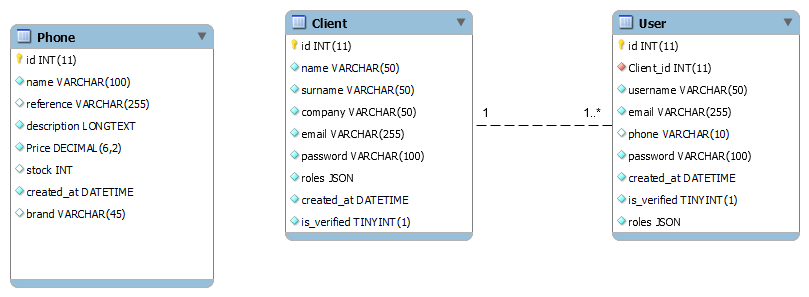
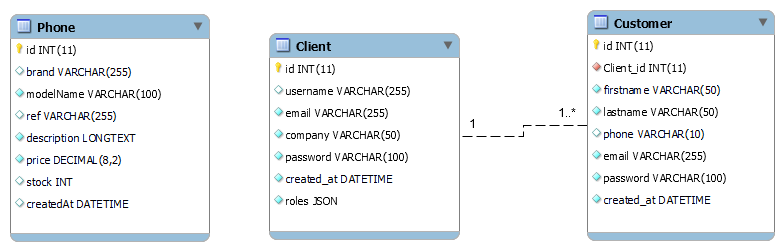
Mise à jour tables

diff --git a/src/Entity/Phone.php b/src/Entity/Phone.php
@@ -1,0 +1,127 @@
+<?php
+
+namespace App\Entity;
+
+use ApiPlatform\Core\Annotation\ApiResource;
+use App\Repository\PhoneRepository;
+use Doctrine\ORM\Mapping as ORM;
+
+#[ORM\Entity(repositoryClass: PhoneRepository::class)]
+#[ApiResource]
+class Phone
+{
+    #[ORM\Id]
+    #[ORM\GeneratedValue]
+    #[ORM\Column(type: 'integer')]
+    private $id;
+
+    #[ORM\Column(type: 'string', length: 255)]
+    private $brand;
+
+    #[ORM\Column(type: 'string', length: 100)]
+    private $modelName;
+
+    #[ORM\Column(type: 'string', length: 255)]
+    private $ref;
+
+    #[ORM\Column(type: 'string', length: 255)]
+    private $description;
+
+    #[ORM\Column(type: 'decimal', precision: 6, scale: 2)]
+    private $price;
+
+    #[ORM\Column(type: 'integer')]
+    private $stock;
+
+    #[ORM\Column(type: 'datetime')]
+    private $createdAt;
+
+    public function getId(): ?int
+    {
+        return $this->id;
+    }
+
+    public function getBrand(): ?string
+    {
+        return $this->brand;
+    }
+
+    public function setBrand(string $brand): self
+    {
+        $this->brand = $brand;
+
+        return $this;
+    }
+
+    public function getModelName(): ?string
+    {
+        return $this->modelName;
+    }
+
+    public function setModelName(string $modelName): self
+    {
+        $this->modelName = $modelName;
+
+        return $this;
+    }
+
+    public function getRef(): ?string
+    {
+        return $this->ref;
+    }
+
+    public function setRef(string $ref): self
+    {
+        $this->ref = $ref;
+
+        return $this;
+    }
+
+    public function getDescription(): ?string
+    {
+        return $this->description;
+    }
+
+    public function setDescription(string $description): self
+    {
+        $this->description = $description;
+
+        return $this;
+    }
+
+    public function getPrice(): ?string
+    {
+        return $this->price;
+    }
+
+    public function setPrice(string $price): self
+    {
+        $this->price = $price;
+
+        return $this;
+    }
+
+    public function getStock(): ?int
+    {
+        return $this->stock;
+    }
+
+    public function setStock(int $stock): self
+    {
+        $this->stock = $stock;
+
+        return $this;
+    }
+
+    public function getCreatedAt(): ?\DateTimeInterface
+    {
+        return $this->createdAt;
+    }
+
+    public function setCreatedAt(\DateTimeInterface $createdAt): self
+    {
+        $this->createdAt = $createdAt;
+
+        return $this;
+    }
+}

diff --git a/src/Repository/PhoneRepository.php b/src/Repository/PhoneRepository.php
@@ -1,0 +1,78 @@
+<?php
+
+namespace App\Repository;
+
+use App\Entity\Phone;
+use Doctrine\Bundle\DoctrineBundle\Repository\ServiceEntityRepository;
+use Doctrine\ORM\OptimisticLockException;
+use Doctrine\ORM\ORMException;
+use Doctrine\Persistence\ManagerRegistry;
+
+/**
+ * @extends ServiceEntityRepository<Phone>
+ *
+ * @method Phone|null find($id, $lockMode = null, $lockVersion = null)
+ * @method Phone|null findOneBy(array $criteria, array $orderBy = null)
+ * @method Phone[]    findAll()
+ * @method Phone[]    findBy(array $criteria, array $orderBy = null, $limit = null, $offset = null)
+ */
+class PhoneRepository extends ServiceEntityRepository
+{
+    public function __construct(ManagerRegistry $registry)
+    {
+        parent::__construct($registry, Phone::class);
+    }
+
+    /**
+     * @throws ORMException
+     * @throws OptimisticLockException
+     */
+    public function add(Phone $entity, bool $flush = true): void
+    {
+        $this->_em->persist($entity);
+        if ($flush) {
+            $this->_em->flush();
+        }
+    }
+
+    /**
+     * @throws ORMException
+     * @throws OptimisticLockException
+     */
+    public function remove(Phone $entity, bool $flush = true): void
+    {
+        $this->_em->remove($entity);
+        if ($flush) {
+            $this->_em->flush();
+        }
+    }
+
+    // /**
+    //  * @return Phone[] Returns an array of Phone objects
+    //  */
+    /*
+    public function findByExampleField($value)
+    {
+        return $this->createQueryBuilder('p')
+            ->andWhere('p.exampleField = :val')
+            ->setParameter('val', $value)
+            ->orderBy('p.id', 'ASC')
+            ->setMaxResults(10)
+            ->getQuery()
+            ->getResult()
+        ;
+    }
+    */
+
+    /*
+    public function findOneBySomeField($value): ?Phone
+    {
+        return $this->createQueryBuilder('p')
+            ->andWhere('p.exampleField = :val')
+            ->setParameter('val', $value)
+            ->getQuery()
+            ->getOneOrNullResult()
+        ;
+    }
+    */
+}
